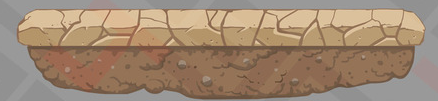
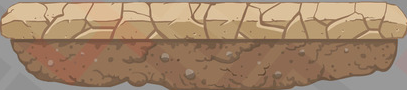
Se agregan plataformas

diff --git a/niveles.py b/niveles.py
@@ -69,26 +69,38 @@ class Nivel_01(Nivel):
         # Llamamos al padre
         Nivel.__init__(self, jugador)
         #self.fondo = pygame.image.load("espacio2.jpg")#cambia la img del nivel
-        self.limite = -1000
+        self.limite = -3000
         self.jugador = jugador
         self.sonido = load_sound("nivel1.wav",curdir).play()
-        # Arreglo con ancho, alto, x, y de la plataforma
-        nivel = [ [210, 50, 500, 520],
-                  [210, 70, 800, 400],
-                  [210, 70, 1000, 500],
-                  [210, 70, 1120, 300],
-                 ]
+        # Arreglo con posiciones de las plataformas
+        plataforma_tipo1 = [
+                             [500, ALTO - ALTO/5],
+                             [990, ALTO/10]
+                           ]
+        plataforma_tipo2 = [
+                             [1100, ALTO - ALTO/2 + 30],
+                             [1500, ALTO/3 + 30],
+                             [3000 - 400, ALTO/3 - 25]
+                            ]
 
-        """for plataforma in nivel:
-            bloque = Plataforma(plataforma[0], plataforma[1])
-            bloque.rect.x = plataforma[2]
-            bloque.rect.y = plataforma[3]
-            self.plataforma_lista.add(bloque)"""
+        plataforma_tipo3 = [
+                             [1900, ALTO/3 - 25],
+                             [3000 - 30, ALTO/3 - 25]
+                            ]
 
-        plataforma1 = Plataforma("plataforma1.png",[500,ALTO - ALTO/3])
-        self.plataforma_lista.add(plataforma1)
+        for plataforma in plataforma_tipo1:
+            bloque = Plataforma("plataforma1.png",[plataforma[0],plataforma[1]])
+            self.plataforma_lista.add(bloque)
 
-        uno = Zombie("zombies1.png",[505,ALTO - ALTO/3 - 10])
+        for plataforma in plataforma_tipo2:
+            bloque = Plataforma("plataforma2.png",[plataforma[0],plataforma[1]])
+            self.plataforma_lista.add(bloque)
+
+        for plataforma in plataforma_tipo3:
+            bloque = Plataforma("plataforma3.png",[plataforma[0],plataforma[1]])
+            self.plataforma_lista.add(bloque)
+
+        uno = Zombie("zombies1.png",[505,ALTO - ALTO/5 - 10])
 
         self.enemigos_lista.add(uno)# = self.createEnemies()
 
